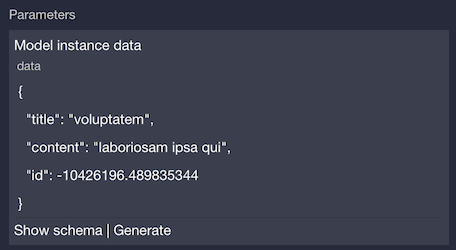
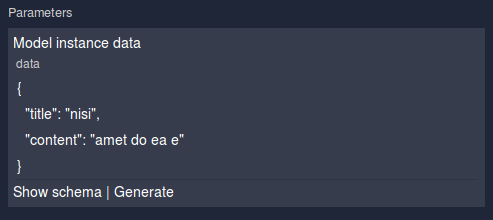
updating lab 1 for 5010

diff --git a/lab-guide/Lab 1 - Introduction to IBM API Connect/README.md b/lab-guide/Lab 1 - Introduction to IBM API Connect/README.md
@@ -35,14 +35,14 @@ For this lab, you will be using a VMWare image running Xubuntu that is pre-insta
 	
 1. The update pulls down a clone of our git repo and moves the support files to the proper locations. The update will take a few minutes, please be patient while the update completes.
 
-# 1.1	- Creating a `hello-world` Application
+# 1.1	- Creating a `notes` Application
 
 1.	We will use the API Connect Developer Toolkit command line interface to create the initial application and explore the created artifacts.
 
 1.	From the terminal command line type:
 
 	```bash
-	apic loopback hello-world
+	apic loopback
 	```
 	
 	This command starts the application generator, Yeoman, to help scaffold the new project. Just press enter for each of the three questions.
@@ -58,21 +58,21 @@ For this lab, you will be using a VMWare image running Xubuntu that is pre-insta
 	   __'.___.'__
 	 ´   `  |° ´ Y `
 	
-	? What's the name of your application? hello-world
-	? Enter name of the directory to contain the project: hello-world
-	   create hello-world/
+	? What's the name of your application? notes
+	? Enter name of the directory to contain the project: notes
+	   create notes/
 	     info change the working directory to hello-world
 	
-	? What kind of application do you have in mind? hello-world (A project containing a basic working e
-	xample, including a memory database)
+	? What kind of application do you have in mind?
+	❯ notes (A project containing a basic working example, including a memory database)
 	```
 	
-	This creates an application named "hello-world" in a directory of the same name. The application is a basic Hello World application. You will see a lot of messages printed to the command line window. It is creating a few resources for you and installing the various node modules. Once the node modules are loaded you'll notice that the process creates swagger and product definitions for you. Finally, the process displays some hints about what to do next. Since we've been given such lovely suggestions about what to do next, we may as well follow the first one at least.
+	This creates an application named `notes` in a directory of the same name. The application is a simple notes application which allows you to create, update, read and delete text notes. You will see a lot of messages printed to the command line window. It is creating a few resources for you and installing the various node modules. Once the node modules are loaded you'll notice that the process creates swagger and product definitions for you. Finally, the process displays some hints about what to do next. Since we've been given such lovely suggestions about what to do next, we may as well follow the first one at least.
 
 1. Change directories to the project directory:
 	
 	```bash
-	cd hello-world
+	cd notes
 	```
 
 1. List the directory:
@@ -106,38 +106,21 @@ For this lab, you will be using a VMWare image running Xubuntu that is pre-insta
 >
 > `*.md` files, such as that found in the client directory, are markdown files used for internal documentation.
 
-# 1.2	- Launching the `hello-world` Application
+# 1.2	- Launching the `notes` Application
 
 1. Now that we've explored what is created by the application generator, let's move on to the API Designer. From the command line:
 
 	```bash
 	apic edit
 	```
-Alternatively, if you'd rather not login to bluemix:
 
-	```bash
-	SKIP_LOGIN=true apic edit
-	```
-
-	```text
-	TODO: add instructions for signing in to bluemix
-	```
-
-1. To test our hello-world services, click on the `run` button to open the application launcher.
+1. To test our notes services, click on the `run` button to open the application launcher.
 
 	![](https://github.com/ibm-apiconnect/pot-onprem-docs/raw/5010/lab-guide/img/lab1/run.png)
-	
-1. Next, click on the `start` button to launch the `hello-world` application.
-	
-	![](https://github.com/ibm-apiconnect/pot-onprem-docs/raw/5010/lab-guide/img/lab1/start.png)
 	
 1. Once start completes, you should see a screen similar to this:
 	
 	![](https://github.com/ibm-apiconnect/pot-onprem-docs/raw/5010/lab-guide/img/lab1/app-running.png)
-	
-1. Notice that once the application is up and running, stop and restart buttons will appear on the right side of the screen:
-	
-	![](https://github.com/ibm-apiconnect/pot-onprem-docs/raw/5010/lab-guide/img/lab1/stop-restart.png)
 	
 	At this point we're ready to Explore and test our services.
 
@@ -145,7 +128,7 @@ Alternatively, if you'd rather not login to bluemix:
 	> 
 	> We used the web-based editor to launch the application. There's also a command provided with the API Connect Developer Toolkit that can be utilized from the terminal to lauch the application: `apic start`
 
-# 1.3	- Testing the `hello-world` Application
+# 1.3	- Testing the `notes` Application
 
 1. Click the `Explore` button to switch to the API Explorer view.
 
@@ -154,7 +137,7 @@ Alternatively, if you'd rather not login to bluemix:
 	You will see all the exposed service paths displayed.
 	
 	![](https://github.com/ibm-apiconnect/pot-onprem-docs/raw/5010/lab-guide/img/lab1/exploreScreen.png)
-
+	
 1. Now we're going to test the services using the GUI presented on the explore screen. You'll notice that on the left several REST services are defined for us. In particular, take a look `POST /notes` and `GET /notes`.
 
 	If you're not familiar with GET and POST, they are HTTP methods (sometimes called verbs). The POST method is used for creation calls to the service. The GET method is used to retrieve information from a service. In this case, we see that both methods are used against the `/notes` path. So, POST will create a `note` and GET will retrieve all the `notes` that have been created.
@@ -173,15 +156,15 @@ Alternatively, if you'd rather not login to bluemix:
 	
 1. Go ahead and press the `Call operation` button and scroll down to the `Response` section to see the results.
 	
-	In the results, you should see a `Code: 200 OK` which indicates that a new `note` was created. If you received a different response, see the troubleshooting steps below.
-	
-	![](https://github.com/ibm-apiconnect/pot-onprem-docs/raw/5010/lab-guide/img/lab1/POST-results.png)
-	
 	> ![][troubleshooting]
 	>
 	> You may see an error displayed that mentions a CORS issue. This has to do with certificates in your browser. Go ahead an click the given link to rectify this, accept any certificate, close the opened tab, and press the `Call operation` button again.  Additionally, be sure not to skip step 5, as doing a `POST` operation without generating payload will cause an error.
 	
 	![](https://github.com/ibm-apiconnect/pot-onprem-docs/raw/5010/lab-guide/img/lab1/CORS-support-error.png)
+	
+	In the results, you should see a `Code: 200 OK` which indicates that a new `note` was created. If you received a different response, see the troubleshooting steps below.
+	
+	![](https://github.com/ibm-apiconnect/pot-onprem-docs/raw/5010/lab-guide/img/lab1/POST-results.png)
 	
 	> ![][troubleshooting]
   >
@@ -223,9 +206,9 @@ In the previous steps, you started the new application along with a MicroGateway
 
 	![](https://github.com/ibm-apiconnect/pot-onprem-docs/raw/5010/lab-guide/img/lab1/apis-menu.png)
 
-1. Click on the `hello-world` API from the list.
+1. Click on the `notes` API from the list.
 
-	![](https://github.com/ibm-apiconnect/pot-onprem-docs/raw/5010/lab-guide/img/lab1/hello-world-api.png)
+	![](https://github.com/ibm-apiconnect/pot-onprem-docs/raw/5010/lab-guide/img/lab1/notes-api.png)
 
 1. Click on the `Assemble` option from the API menu bar.
 
@@ -301,11 +284,13 @@ In the previous steps, you started the new application along with a MicroGateway
 
 	![](https://github.com/ibm-apiconnect/pot-onprem-docs/raw/5010/lab-guide/img/lab1/api-products-link.png)
 
-1. You should see the published `hello-world` API in the list of products.
+1. You should see the published `notes` API in the list of products.
 
   ![](https://github.com/ibm-apiconnect/pot-onprem-docs/raw/5010/lab-guide/img/lab1/publishedAPI.png)
-
-	It should be noted that the hello-world application has more to it than we've shown in this lab. You're encouraged to dig in and discover the custom method that's implemented. In future labs, we'll be doing more work in the Developer Portal. For instance we'll be customizing the portal theme, registering an application, subscribing to APIs and testing them from a separate consumer application.
+  
+  ```
+	TODO: Update screenshot
+	```
 
 1. Close the `Firefox` web browser. If a warning is presented about closing multiple tabs, deselect the option to notify you in the future and click the `Close Tabs` button.
 
